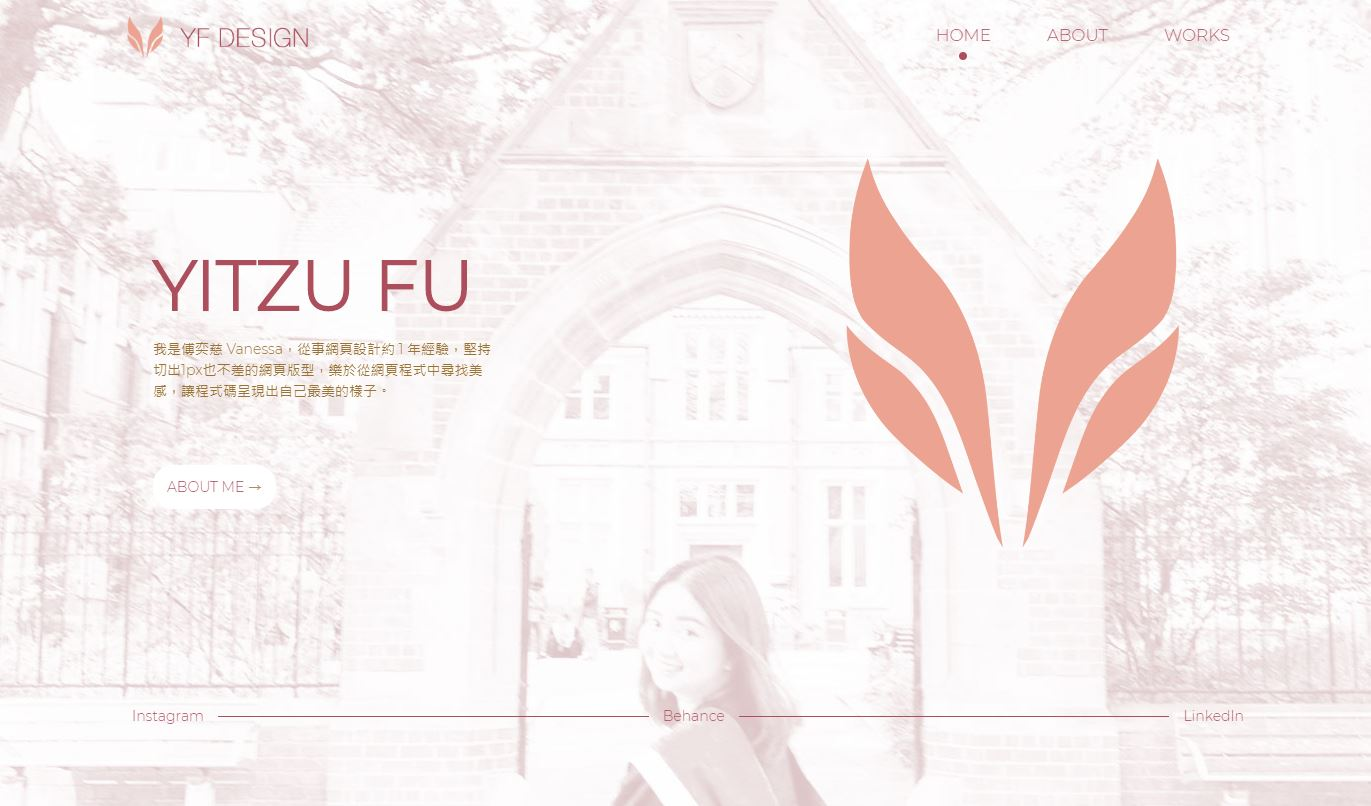
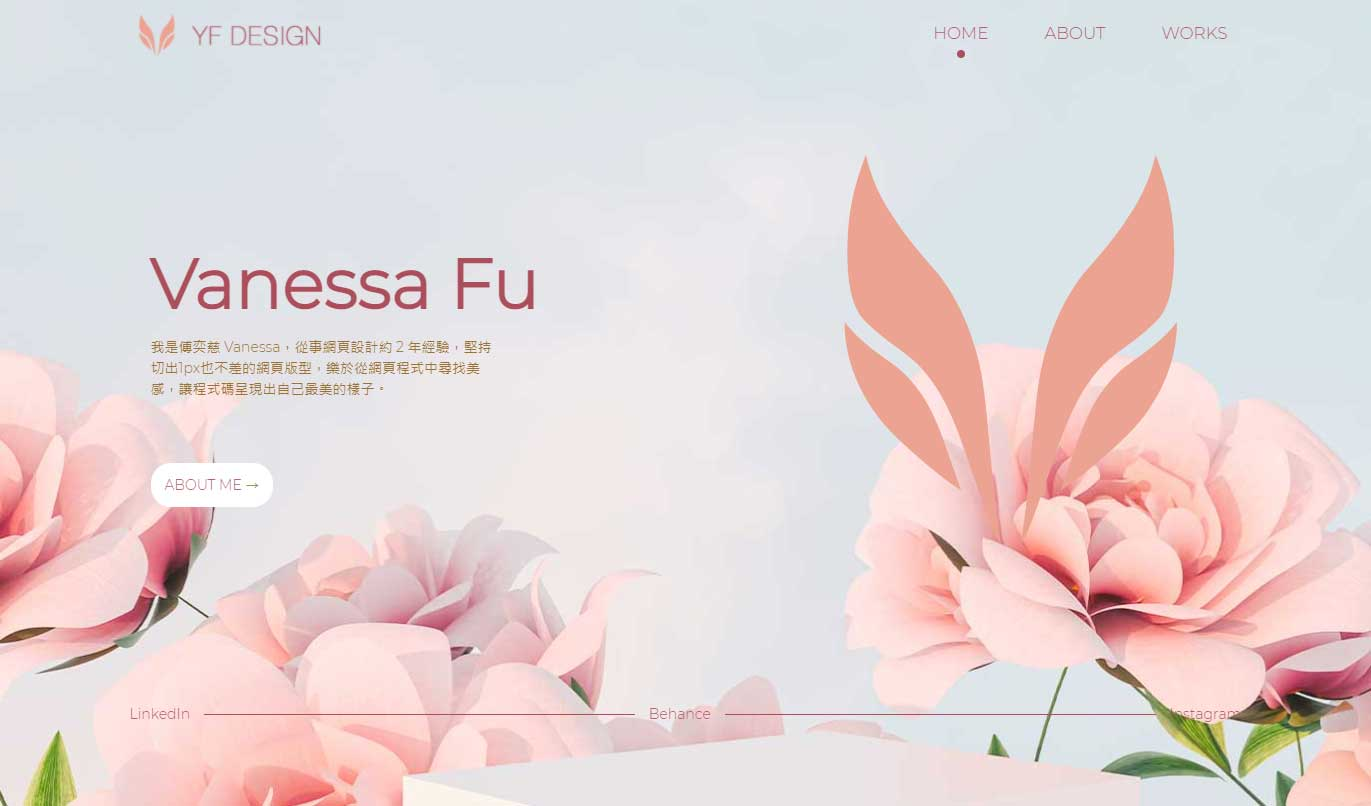
Title and cover updated

diff --git a/index.html b/index.html
@@ -5,7 +5,7 @@
     <meta charset="UTF-8">
     <meta name="viewport" content="width=device-width, initial-scale=1.0">
     <meta http-equiv="X-UA-Compatible" content="IE=edge">
-    <title>傅奕慈 / YITZU FU 個人網站</title>
+    <title>傅奕慈 / Vanessa Fu 個人網站</title>
     <link rel="stylesheet" href="css/style.css">
     <link rel="shortcut icon" href="favicon.png" />
     <link href="https://fonts.googleapis.com/css2?family=Montserrat:wght@300&display=swap" rel="stylesheet"> 
@@ -50,7 +50,7 @@
                 <div class="col-6">
                     <title>Vanessa Fu</title>
                     <p class="content">
-                        我是傅奕慈 Vanessa，從事網頁設計約 1 年經驗，堅持切出1px也不差的網頁版型，樂於從網頁程式中尋找美感，讓程式碼呈現出自己最美的樣子。 <br><br>
+                        我是傅奕慈 Vanessa，從事網頁設計約 2 年經驗，堅持切出1px也不差的網頁版型，樂於從網頁程式中尋找美感，讓程式碼呈現出自己最美的樣子。 <br><br>
                     </p>
                     <a href="about.html" class="btn more">
                         ABOUT ME

diff --git a/about.html b/about.html
@@ -4,7 +4,7 @@
 <head>
     <meta charset="UTF-8">
     <meta name="viewport" content="width=device-width, initial-scale=1.0">
-    <title>About - 傅奕慈 / YITZU FU 個人網站</title>
+    <title>About - 傅奕慈 / Vanessa Fu 個人網站</title>
     <link rel="stylesheet" href="css/style.css">
     <link rel="shortcut icon" href="favicon.png" />
     <link href="https://fonts.googleapis.com/css2?family=Montserrat:wght@300&display=swap" rel="stylesheet">

diff --git a/work-EM.html b/work-EM.html
@@ -4,7 +4,7 @@
 <head>
     <meta charset="UTF-8">
     <meta name="viewport" content="width=device-width, initial-scale=1.0">
-    <title>Works - 傅奕慈 / YITZU FU 個人網站</title>
+    <title>Works - 傅奕慈 / Vanessa Fu 個人網站</title>
     <link rel="stylesheet" href="css/style.css">
     <link rel="shortcut icon" href="favicon.png" />
     <link href="https://fonts.googleapis.com/css2?family=Montserrat:wght@300&display=swap" rel="stylesheet">

diff --git a/work-LimitStyle.html b/work-LimitStyle.html
@@ -4,7 +4,7 @@
 <head>
     <meta charset="UTF-8">
     <meta name="viewport" content="width=device-width, initial-scale=1.0">
-    <title>Works - 傅奕慈 / YITZU FU 個人網站</title>
+    <title>Works - 傅奕慈 / Vanessa Fu 個人網站</title>
     <link rel="stylesheet" href="css/style.css">
     <link rel="shortcut icon" href="favicon.png" />
     <link href="https://fonts.googleapis.com/css2?family=Montserrat:wght@300&display=swap" rel="stylesheet">

diff --git a/work-graphic.html b/work-graphic.html
@@ -4,7 +4,7 @@
 <head>
     <meta charset="UTF-8">
     <meta name="viewport" content="width=device-width, initial-scale=1.0">
-    <title>Works - 傅奕慈 / YITZU FU 個人網站</title>
+    <title>Works - 傅奕慈 / Vanessa Fu 個人網站</title>
     <link rel="stylesheet" href="css/style.css">
     <link rel="shortcut icon" href="favicon.png" />
     <link href="https://fonts.googleapis.com/css2?family=Montserrat:wght@300&display=swap" rel="stylesheet">

diff --git a/work-graphic2.html b/work-graphic2.html
@@ -4,7 +4,7 @@
 <head>
     <meta charset="UTF-8">
     <meta name="viewport" content="width=device-width, initial-scale=1.0">
-    <title>Works - 傅奕慈 / YITZU FU 個人網站</title>
+    <title>Works - 傅奕慈 / Vanessa Fu 個人網站</title>
     <link rel="stylesheet" href="css/style.css">
     <link rel="shortcut icon" href="favicon.png" />
     <link href="https://fonts.googleapis.com/css2?family=Montserrat:wght@300&display=swap" rel="stylesheet">

diff --git a/work-idshow.html b/work-idshow.html
@@ -4,7 +4,7 @@
 <head>
     <meta charset="UTF-8">
     <meta name="viewport" content="width=device-width, initial-scale=1.0">
-    <title>Works - 傅奕慈 / YITZU FU 個人網站</title>
+    <title>Works - 傅奕慈 / Vanessa Fu 個人網站</title>
     <link rel="stylesheet" href="css/style.css">
     <link rel="shortcut icon" href="favicon.png" />
     <link href="https://fonts.googleapis.com/css2?family=Montserrat:wght@300&display=swap" rel="stylesheet">

diff --git a/work-jsid.html b/work-jsid.html
@@ -4,7 +4,7 @@
 <head>
     <meta charset="UTF-8">
     <meta name="viewport" content="width=device-width, initial-scale=1.0">
-    <title>Works - 傅奕慈 / YITZU FU 個人網站</title>
+    <title>Works - 傅奕慈 / Vanessa Fu 個人網站</title>
     <link rel="stylesheet" href="css/style.css">
     <link rel="shortcut icon" href="favicon.png" />
     <link href="https://fonts.googleapis.com/css2?family=Montserrat:wght@300&display=swap" rel="stylesheet">

diff --git a/work-kch.html b/work-kch.html
@@ -4,7 +4,7 @@
 <head>
     <meta charset="UTF-8">
     <meta name="viewport" content="width=device-width, initial-scale=1.0">
-    <title>Works - 傅奕慈 / YITZU FU 個人網站</title>
+    <title>Works - 傅奕慈 / Vanessa Fu 個人網站</title>
     <link rel="stylesheet" href="css/style.css">
     <link rel="shortcut icon" href="favicon.png" />
     <link href="https://fonts.googleapis.com/css2?family=Montserrat:wght@300&display=swap" rel="stylesheet">

diff --git a/work-mesong.html b/work-mesong.html
@@ -4,7 +4,7 @@
 <head>
     <meta charset="UTF-8">
     <meta name="viewport" content="width=device-width, initial-scale=1.0">
-    <title>Works - 傅奕慈 / YITZU FU 個人網站</title>
+    <title>Works - 傅奕慈 / Vanessa Fu 個人網站</title>
     <link rel="stylesheet" href="css/style.css">
     <link rel="shortcut icon" href="favicon.png" />
     <link href="https://fonts.googleapis.com/css2?family=Montserrat:wght@300&display=swap" rel="stylesheet">

diff --git a/work-norz.html b/work-norz.html
@@ -4,7 +4,7 @@
 <head>
     <meta charset="UTF-8">
     <meta name="viewport" content="width=device-width, initial-scale=1.0">
-    <title>Works - 傅奕慈 / YITZU FU 個人網站</title>
+    <title>Works - 傅奕慈 / Vanessa Fu 個人網站</title>
     <link rel="stylesheet" href="css/style.css">
     <link rel="shortcut icon" href="favicon.png" />
     <link href="https://fonts.googleapis.com/css2?family=Montserrat:wght@300&display=swap" rel="stylesheet">

diff --git a/work-ouch.html b/work-ouch.html
@@ -4,7 +4,7 @@
 <head>
     <meta charset="UTF-8">
     <meta name="viewport" content="width=device-width, initial-scale=1.0">
-    <title>Works - 傅奕慈 / YITZU FU 個人網站</title>
+    <title>Works - 傅奕慈 / Vanessa Fu 個人網站</title>
     <link rel="stylesheet" href="css/style.css">
     <link rel="shortcut icon" href="favicon.png" />
     <link href="https://fonts.googleapis.com/css2?family=Montserrat:wght@300&display=swap" rel="stylesheet">
